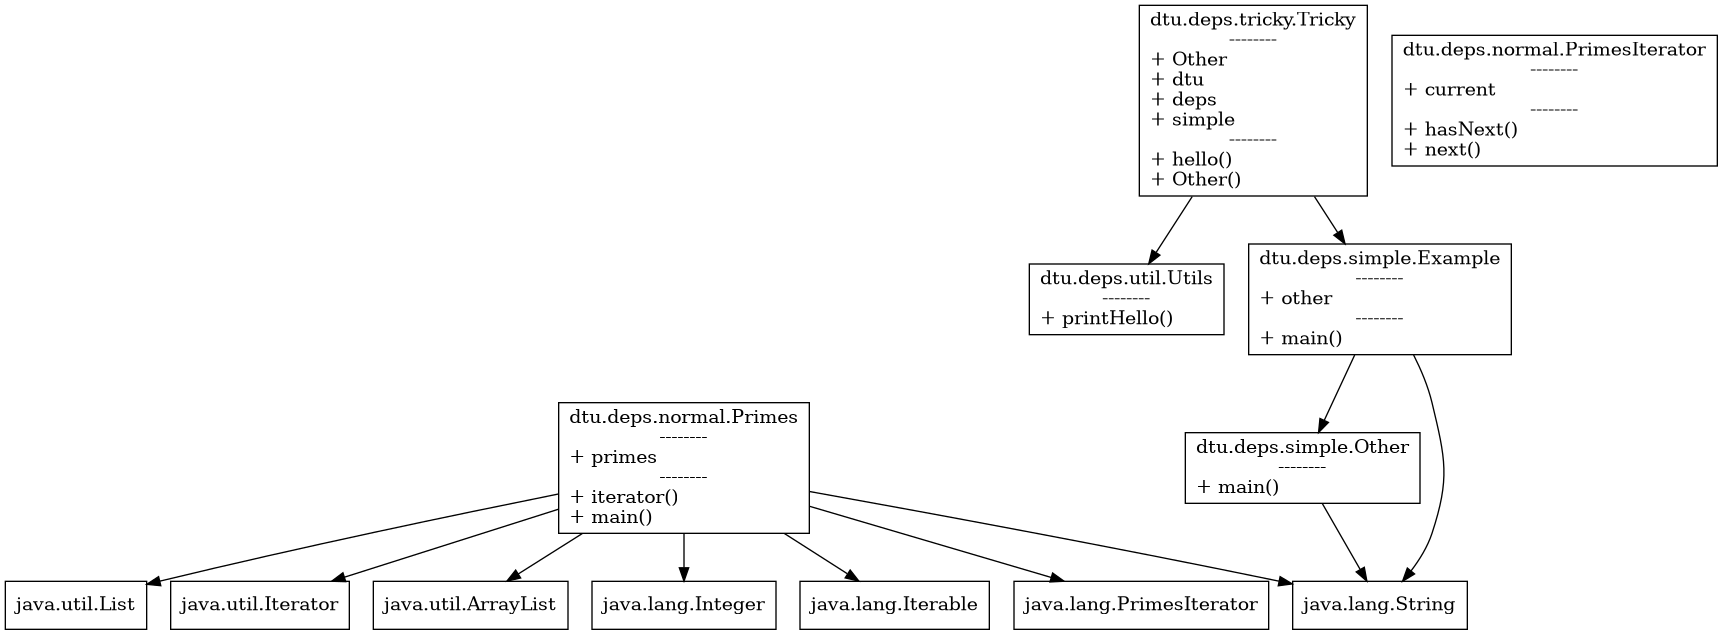
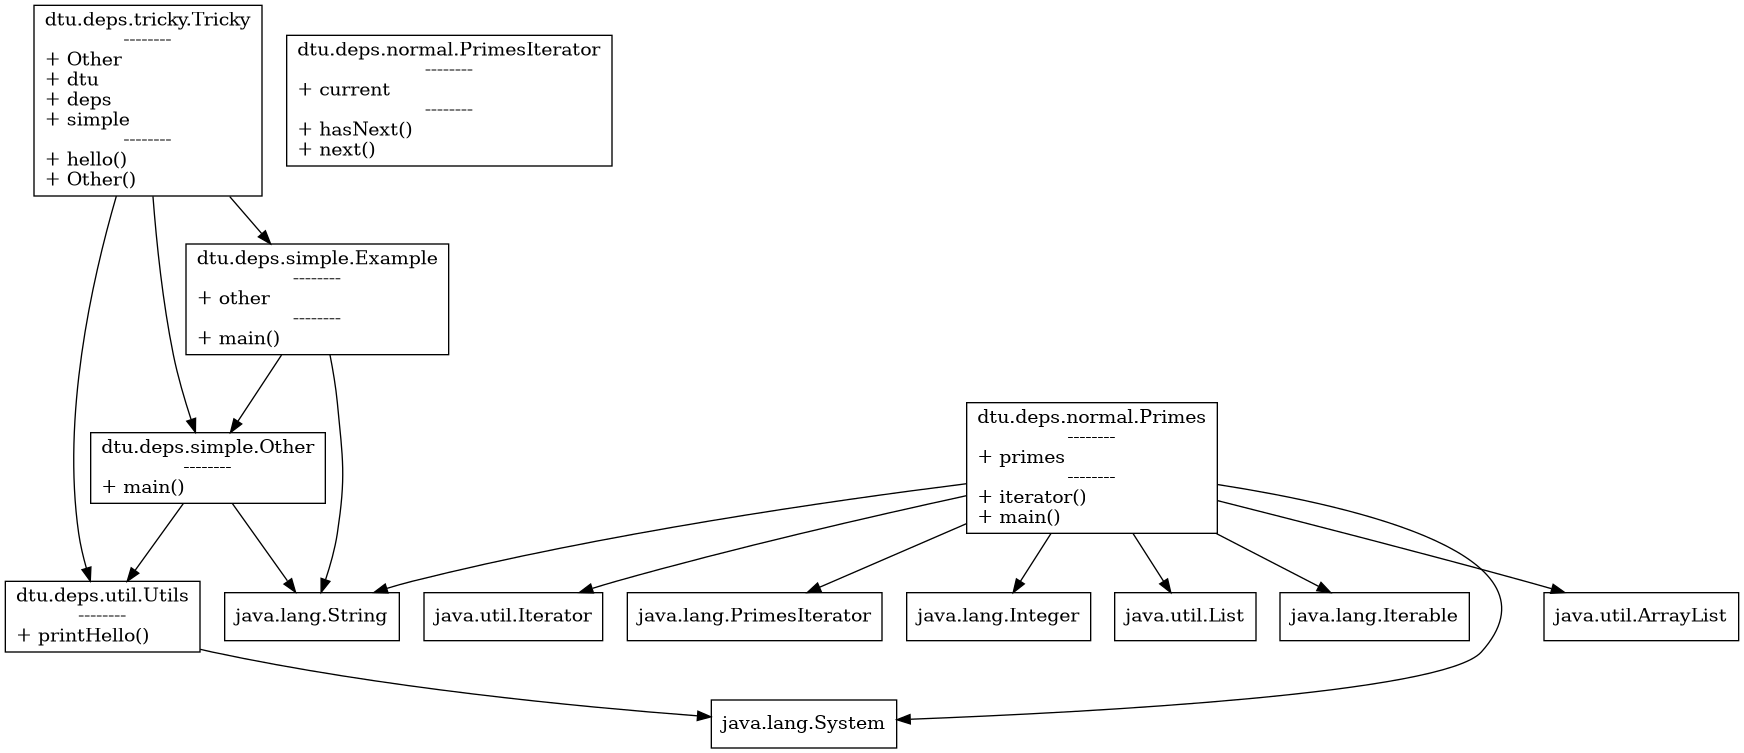
Fix full path field access

diff --git a/assignment-02/run.py b/assignment-02/run.py
@@ -76,6 +76,7 @@ class ClassNames(SyntaxFold):
     class_fields = {}
     class_methods = {}
     class_imports = set()
+    class_fields_access = set()
 
     def classify_declaration(self, node, p, dic):
         if p.parent:
@@ -134,6 +135,17 @@ class ClassNames(SyntaxFold):
                 }
         return set()
 
+    def field_access(self, node, results):
+        if node.parent:
+            p = node.parent
+            if p.type == "method_invocation" or p.type == "assignment_expression":
+                text = node.text.decode()
+                if text[0].isupper():
+                    self.class_fields_access.add("java.lang." + text.split(".")[0])
+                else:
+                    self.class_fields_access.add(text)
+
+        return set()
 
 def get_paths(folder_path):
     # Retrieves a list of file paths for Java source code files in a folder.
@@ -156,6 +168,7 @@ def analyse(paths):
 
     packages = {}
     class_imports = {}
+    class_fields_access = {}
 
     # Get class information
     for path in paths:
@@ -178,7 +191,12 @@ def analyse(paths):
         new_set = set()
         new_set.update(classNames.class_imports)
         class_imports[classNames.package_name + "." + publicClassName] =  new_set
+        new_fields_access = set()
+        new_fields_access.update(classNames.class_fields_access)
+        class_fields_access[classNames.package_name + "." + publicClassName] = new_fields_access
+
         classNames.class_imports.clear()
+        classNames.class_fields_access.clear()
 
     # Get dependencies
     for path in paths:
@@ -220,6 +238,7 @@ def analyse(paths):
                             new_imports.add("java.lang." + _import)
                             
                 dependencies[class_path] = list(new_imports)
+                dependencies[class_path].extend(class_fields_access[class_path])
                 break
 
     return dependencies, fields, methods, classes
